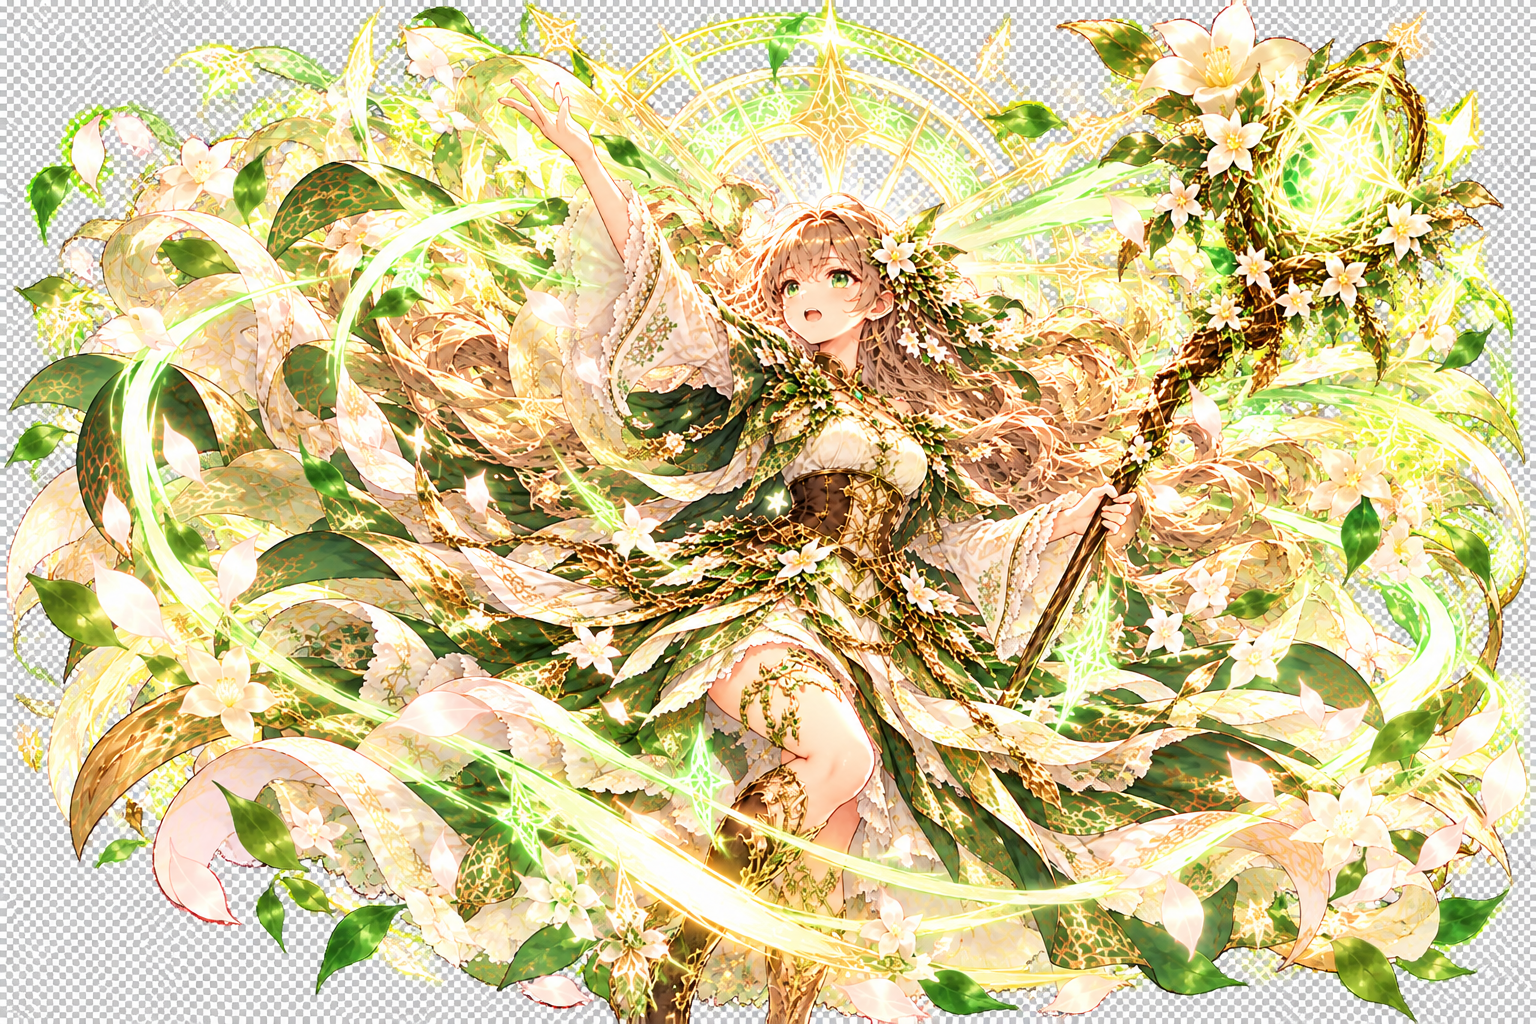
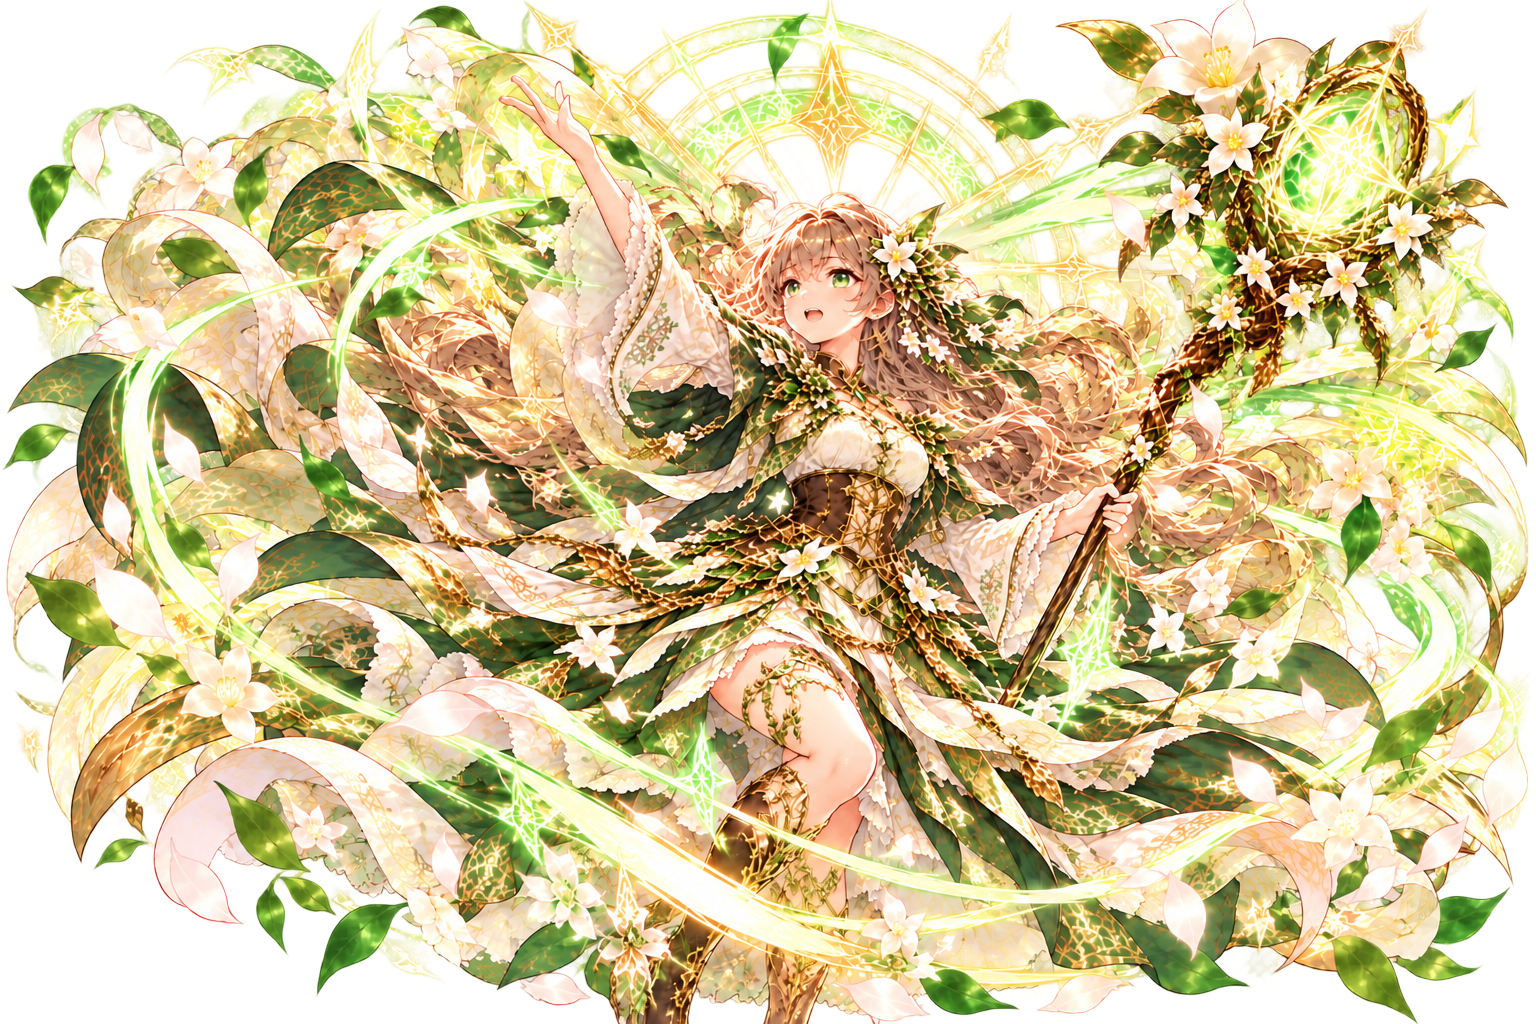
Finish transparent future artwork and Fiona wind-prayer presentation

diff --git a/index.html b/index.html
@@ -766,7 +766,7 @@ function resolveNormalRound(){
        else act('魔力の雫',()=>{normalFMP=Math.min(30,normalFMP+12);v2Float('floatFiona','MP +12','resource')});
      }else if(a.kind==='guard')act('フィオナは防御した。',()=>normalGuardF=true);
      else if(a.kind==='heal')act('フィオナの「ヒール」！ 傷を癒した。',()=>{normalFMP-=8;if(aahp/100<=normalFHP/90){aahp=Math.min(100,aahp+42);v2Float('floatAidan','+42','heal')}else{normalFHP=Math.min(90,normalFHP+42);v2Float('floatFiona','+42','heal')}},'normalFionaMagic','heal','fiona');
-     else if(a.kind==='prayer')act('フィオナの「風の祈り」！ 二人を柔らかな風が包む。',()=>{normalFMP-=6;aahp=Math.min(100,aahp+8);normalFHP=Math.min(90,normalFHP+8);v2Float('floatAidan','+8','heal');v2Float('floatFiona','+8','heal')},'normalFionaMagic','charge','fiona');
+     else if(a.kind==='prayer')act('フィオナの「風の祈り」！ 二人を柔らかな風が包む。',()=>{normalFMP-=6;aahp=Math.min(100,aahp+8);normalFHP=Math.min(90,normalFHP+8);v2Float('floatAidan','+8','heal');v2Float('floatFiona','+8','heal')},'normalFionaMagic','prayer','fiona');
      else act('フィオナの攻撃！',()=>{gghp-=20;v2Float('floatGob','-20');v2Hit('v2GobUnit')},'normalFionaAttack','attack','fiona');
    }
  });
@@ -1376,7 +1376,7 @@ function resolvePartyRound(){
        else sayAct('フィオナは魔力の雫を使った。MP +12',()=>rbFMP=Math.min(36,rbFMP+12));
      }else if(a.kind==='guard'){sayAct('フィオナは防御した。RUNE +10',()=>{rbGuardF=true;rbRune=Math.min(100,rbRune+10)})}
      else if(a.kind==='heal'){sayAct('フィオナの「ヒール」！ 傷を癒した。',()=>{rbFMP-=8;let target=rbHP<=rbFHP?'a':'f';if(target==='a')rbHP=Math.min(120,rbHP+48);else rbFHP=Math.min(105,rbFHP+48);rbRune=Math.min(100,rbRune+8)},'raiderFionaMagic','heal','fiona')}
-     else if(a.kind==='rune'){sayAct('フィオナの「風の祈り」！ RUNEが大きく高まる。',()=>{rbFMP-=6;rbRune=Math.min(100,rbRune+28)},'raiderFionaMagic','charge','fiona')}
+     else if(a.kind==='rune'){sayAct('フィオナの「風の祈り」！ RUNEが大きく高まる。',()=>{rbFMP-=6;rbRune=Math.min(100,rbRune+28)},'raiderFionaMagic','prayer','fiona')}
      else sayAct('フィオナが杖で応戦！ 22ダメージ。',()=>{rbBoss-=22;rbRune=Math.min(100,rbRune+7)},'raiderFionaAttack','attack','fiona');
    }
  });

diff --git a/js/battle-actor-state.js b/js/battle-actor-state.js
@@ -1,7 +1,7 @@
 // Artwork only: battle calculations and DOM motion remain in the battle engine.
 (() => {
-  const states = new Set(['idle', 'attack', 'damage', 'guard', 'low_hp', 'ko', 'victory', 'charge', 'heal', 'blessing', 'call', 'corruption', 'enrage']);
-  const temporary = new Set(['attack', 'damage', 'charge', 'heal', 'blessing', 'call', 'corruption', 'enrage']);
+  const states = new Set(['idle', 'attack', 'damage', 'guard', 'low_hp', 'ko', 'victory', 'charge', 'heal', 'blessing', 'call', 'corruption', 'enrage', 'prayer']);
+  const temporary = new Set(['attack', 'damage', 'charge', 'heal', 'blessing', 'call', 'corruption', 'enrage', 'prayer']);
   const battles = {
     normal: { actor: 'aidan', image: '#bAidan2 img', health: () => [aahp, 100] },
     raider: { actor: 'aidan', image: '#rbAidan img', health: () => [rbHP, 120] },
